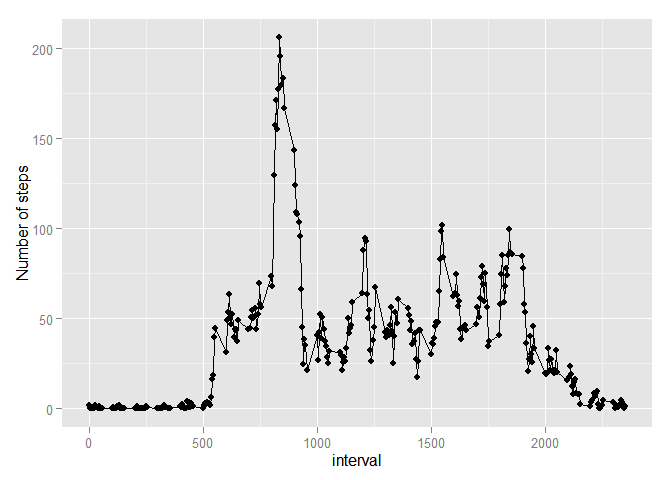
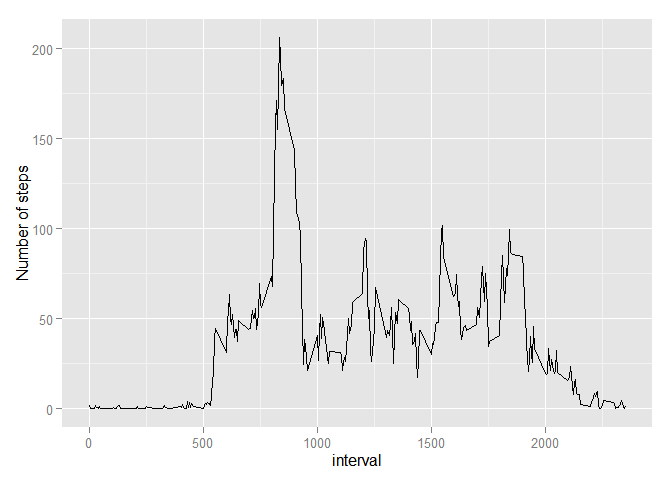
updated

diff --git a/PA1_template.html b/PA1_template.html
@@ -87,16 +87,17 @@ med&lt;-median(total_steps_day$x,na.rm = TRUE)</code></pre>
 <pre class="r"><code>library(ggplot2)</code></pre>
 <pre><code>## Warning: package 'ggplot2' was built under R version 3.1.3</code></pre>
 <pre class="r"><code>avg_steps_interval&lt;-aggregate(activity$steps,by=list(interval=activity$interval),FUN = mean,na.rm=TRUE)
-ggplot(data = avg_steps_interval,aes(x=interval,y=x))+geom_point()+geom_line()+ylab('Number of steps')</code></pre>
[1 lines of base64/hex data omitted]
+ggplot(data = avg_steps_interval,aes(x=interval,y=x))+geom_line()+ylab('Number of steps')</code></pre>
[1 lines of base64/hex data omitted]
 <pre class="r"><code>max_steps_interval&lt;-subset(avg_steps_interval,avg_steps_interval$x==max(avg_steps_interval$x))</code></pre>
+<p>The 5-minute interval, on average across all the days in the dataset, that contains the maximum number of steps: 835</p>
 </div>
 <div id="imputing-missing-values" class="section level2">
 <h2>Imputing missing values</h2>
 <pre class="r"><code>#num of na's
-sum(is.na(activity))</code></pre>
-<pre><code>## [1] 2304</code></pre>
-<pre class="r"><code>#left join activity and avg_steps_interval 
+miss&lt;-sum(is.na(activity))
+
+#left join activity and avg_steps_interval 
 activity_merge&lt;-merge(x = activity,y = avg_steps_interval,by = &quot;interval&quot;,all.x = TRUE )
 
 #if steps is na, replace with corresponding mean step for that interval
@@ -111,7 +112,9 @@ hist(total_steps_day_imput$x,xlab = 'Total number of steps per day',main = 'Hist
 <pre class="r"><code>#mean of total num of steps taken per day
 mn_imput&lt;-round(mean(total_steps_day_imput$x),0)
 med_imput&lt;-median(total_steps_day_imput$x)</code></pre>
+<p>Total number rows with missing values = 2304</p>
 <p>Mean of total number of steps taken per day (imputted) = 1.076610^{4}<br />Median of total number of steps taken per day (imputted)= 1.076610^{4}</p>
+<p>After imputing the missing values, both the mean and median values of total number of steps taken increased.</p>
 </div>
 <div id="are-there-differences-in-activity-patterns-between-weekdays-and-weekends" class="section level2">
 <h2>Are there differences in activity patterns between weekdays and weekends?</h2>
@@ -124,6 +127,7 @@ avg_steps_interval_days&lt;-aggregate(activity_days$steps,by=list(interval=activ
 
  qplot(x=interval, y=x, data=avg_steps_interval_days, geom=&quot;line&quot;,ylab = 'Number of Steps') + facet_grid(days ~ .)</code></pre>
[1 lines of base64/hex data omitted]
+<p>From the above plot, it is clear that there is some difference in activity patterns between weekdays and weekends. It is seen that activity starts around interval 500 in weekdays, whereas activity starts around interval 800 on the weekends.</p>
 </div>
 
 

diff --git a/PA1_template.md b/PA1_template.md
@@ -40,7 +40,7 @@ library(ggplot2)
 
 ```r
 avg_steps_interval<-aggregate(activity$steps,by=list(interval=activity$interval),FUN = mean,na.rm=TRUE)
-ggplot(data = avg_steps_interval,aes(x=interval,y=x))+geom_point()+geom_line()+ylab('Number of steps')
+ggplot(data = avg_steps_interval,aes(x=interval,y=x))+geom_line()+ylab('Number of steps')
 ```
 
 ![](PA1_template_files/figure-html/unnamed-chunk-3-1.png) 
@@ -48,19 +48,15 @@ ggplot(data = avg_steps_interval,aes(x=interval,y=x))+geom_point()+geom_line()+y
 ```r
 max_steps_interval<-subset(avg_steps_interval,avg_steps_interval$x==max(avg_steps_interval$x))
 ```
+The 5-minute interval, on average across all the days in the dataset, that contains the maximum number of steps: 835
+
 
 ## Imputing missing values
 
 ```r
 #num of na's
-sum(is.na(activity))
-```
+miss<-sum(is.na(activity))
 
-```
-## [1] 2304
-```
-
-```r
 #left join activity and avg_steps_interval 
 activity_merge<-merge(x = activity,y = avg_steps_interval,by = "interval",all.x = TRUE )
 
@@ -81,8 +77,12 @@ hist(total_steps_day_imput$x,xlab = 'Total number of steps per day',main = 'Hist
 mn_imput<-round(mean(total_steps_day_imput$x),0)
 med_imput<-median(total_steps_day_imput$x)
 ```
+Total number rows with missing values = 2304 
+
 Mean of total number of steps taken per day (imputted) = 1.0766\times 10^{4}  
 Median of total number of steps taken per day (imputted)= 1.0766\times 10^{4}
+
+After imputing the missing values, both the mean and median values of total number of steps taken increased.
 
 
 ## Are there differences in activity patterns between weekdays and weekends?
@@ -101,3 +101,4 @@ avg_steps_interval_days<-aggregate(activity_days$steps,by=list(interval=activity
 
 ![](PA1_template_files/figure-html/unnamed-chunk-5-1.png) 
 
+From the above plot, it is clear that there is some difference in activity patterns between weekdays and weekends. It is seen that activity starts around interval 500 in weekdays, whereas activity starts around interval 800 on the weekends. 
